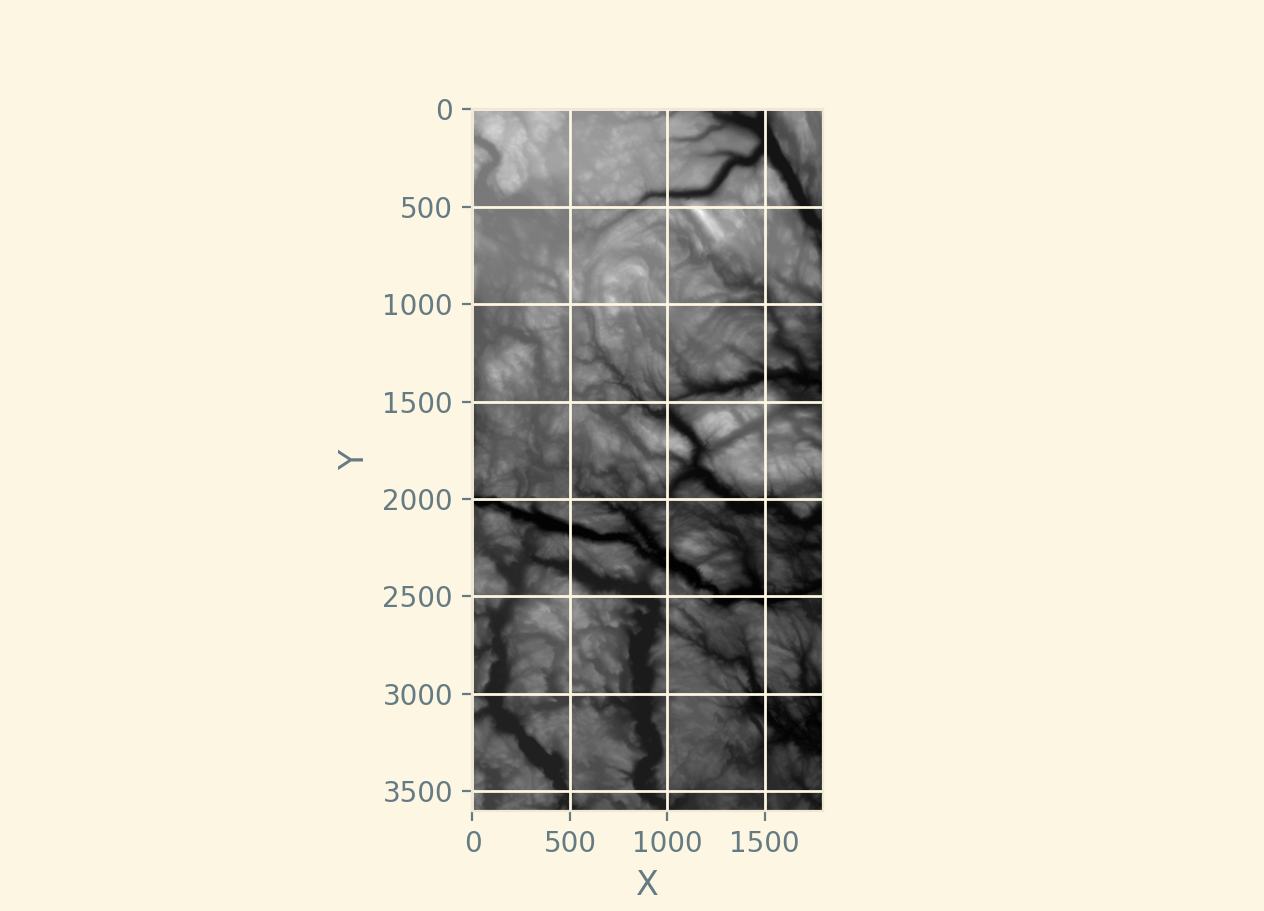
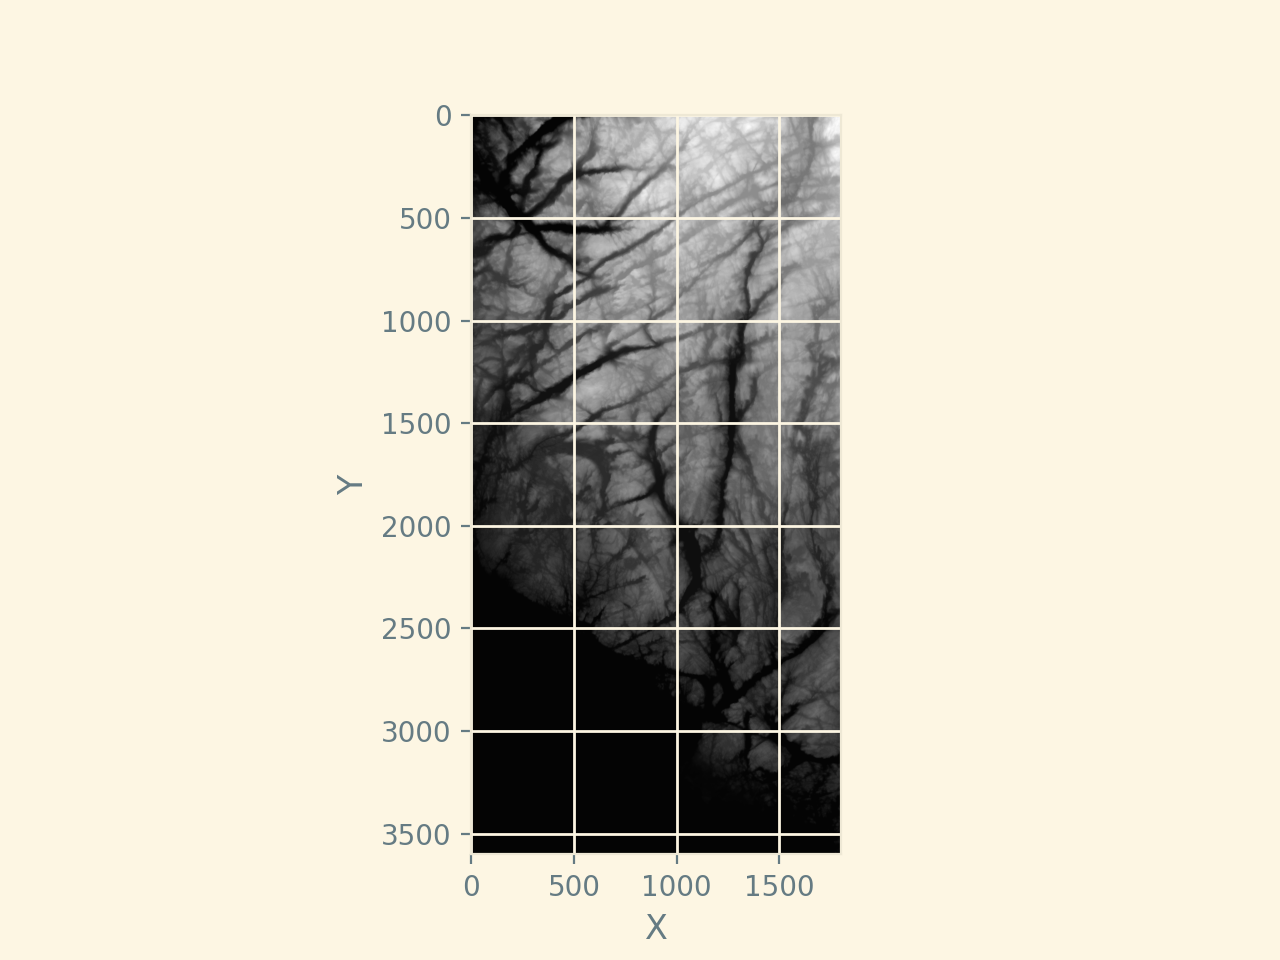
More figures

Changed region(s): [[0.2777, 0.0922, 0.6788, 0.9835], [0.2468, 0.4918, 0.2777, 0.5225]]

diff --git a/Project1/Solution/main.py b/Project1/Solution/main.py
@@ -258,7 +258,7 @@ if __name__ == '__main__':
 
 #%%
     
-    data_used = "Terrain_1"
+    data_used = "Terrain_2"
     
     if data_used == "Franke":
         # Set seed and generate random data used for a)-c)
